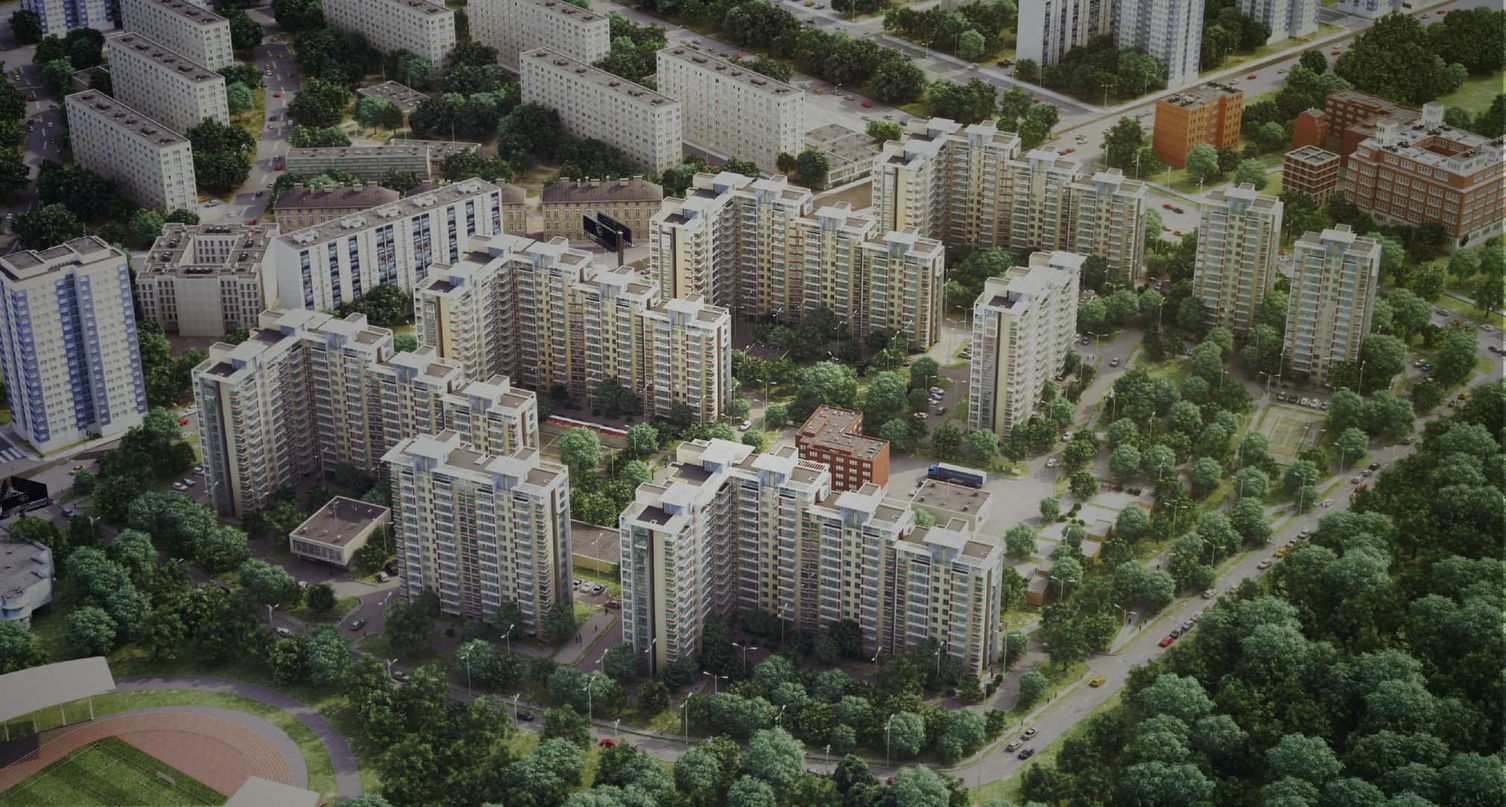
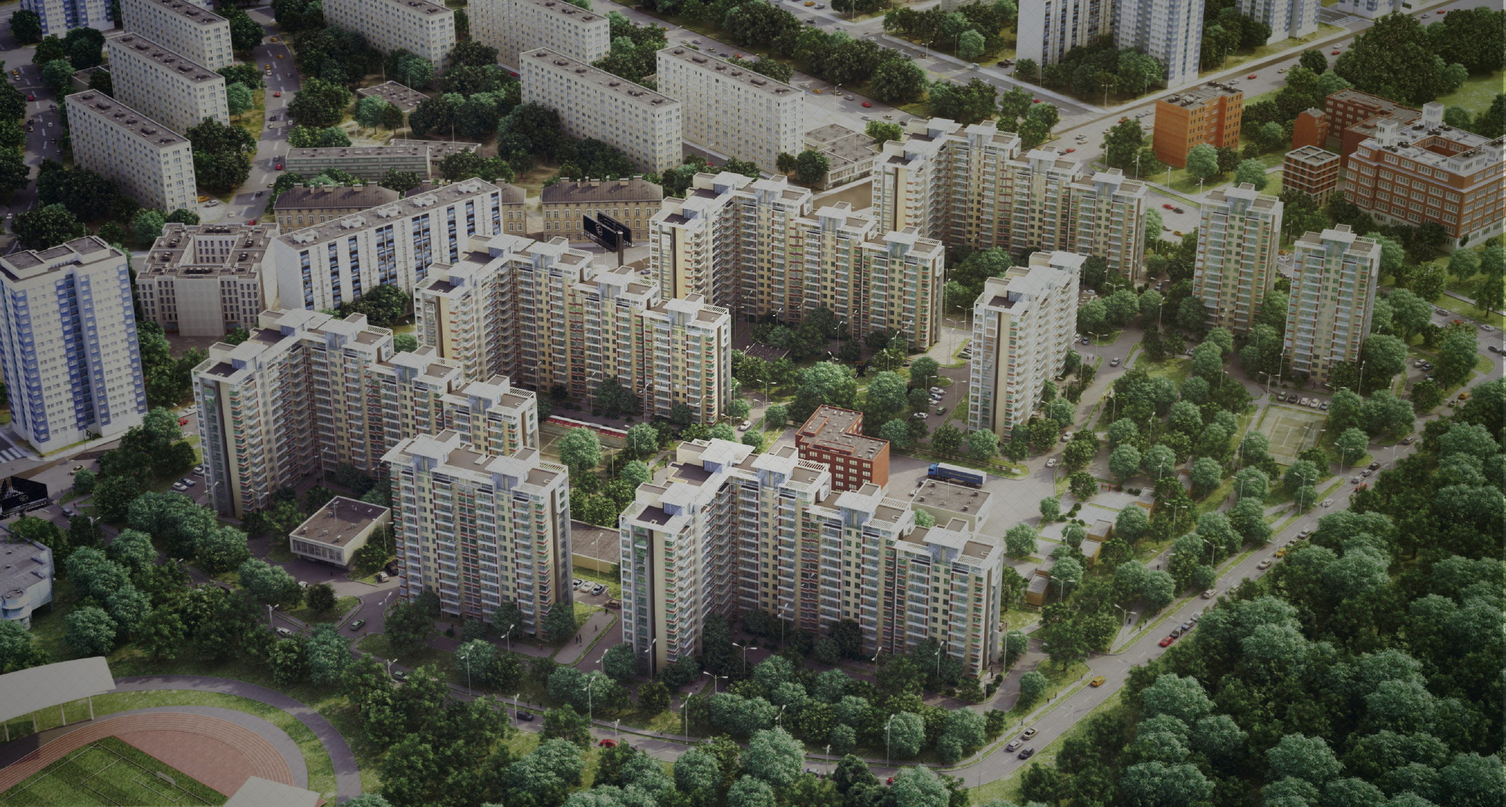
bg

diff --git a/startway/index.html b/startway/index.html
@@ -34,11 +34,11 @@
 		<div id="myCarousel" class="carousel slide" data-ride="carousel">
 		  <div class="carousel-inner">
 		    <div class="item active">
-		      <img class="hide" src="img/bg_old.jpg" alt="Загородный дом">
-		      <img class="hide" src="img/bg2_old.jpg">
-		      <img class="hide" src="img/bg3_old.jpg">
-		      <img class="hide" src="img/bg4_old.jpg">
-		      <div class="annot" style="background-image:url(img/bg_old.jpg);">
+		      <img class="hide" src="img/bg1.jpg" alt="Загородный дом">
+		      <img class="hide" src="img/bg2.jpg">
+		      <img class="hide" src="img/bg3.jpg">
+		      <img class="hide" src="img/bg4.jpg">
+		      <div class="annot" style="background-image:url(img/bg1.jpg);">
 		      </div>
 		      <div class="annot-inner">
 			      <h1><span>Реалистичная</span><br/>залупа</h1>
@@ -47,7 +47,7 @@
 		    </div>
 		    <div class="item">
 		      <!-- <img src="img/bg2.jpg" alt="Интерьер"> -->
-		      <div class="annot" style="background-image:url(img/bg2_old.jpg);">
+		      <div class="annot" style="background-image:url(img/bg2.jpg);">
 		      </div>
 		      <div class="annot-inner">
 				    <h1><span>Неебическая</span><br/>хуета</h1>
@@ -56,7 +56,7 @@
 		    </div>
 		    <div class="item">
 		      <!-- <img src="img/bg3.jpg" alt="Жилой комплекс"> -->
-		      <div class="annot" style="background-image:url(img/bg3_old.jpg);">
+		      <div class="annot" style="background-image:url(img/bg3.jpg);">
 		      </div>
 		      <div class="annot-inner complex">
 			      <h1><span>Ебанистический</span><br/>жилой комплекс</h1>
@@ -65,7 +65,7 @@
 		    </div>
 		    <div class="item">
 		      <!-- <img src="img/bg4.jpg" alt="Кухня"> -->
-		      <div class="annot complex" style="background-image:url(img/bg4_old.jpg);">
+		      <div class="annot complex" style="background-image:url(img/bg4.jpg);">
 		      </div>
 		      <div class="annot-inner">
 			      <h1><span>Охххуевшие</span><br/>кухни</h1>
